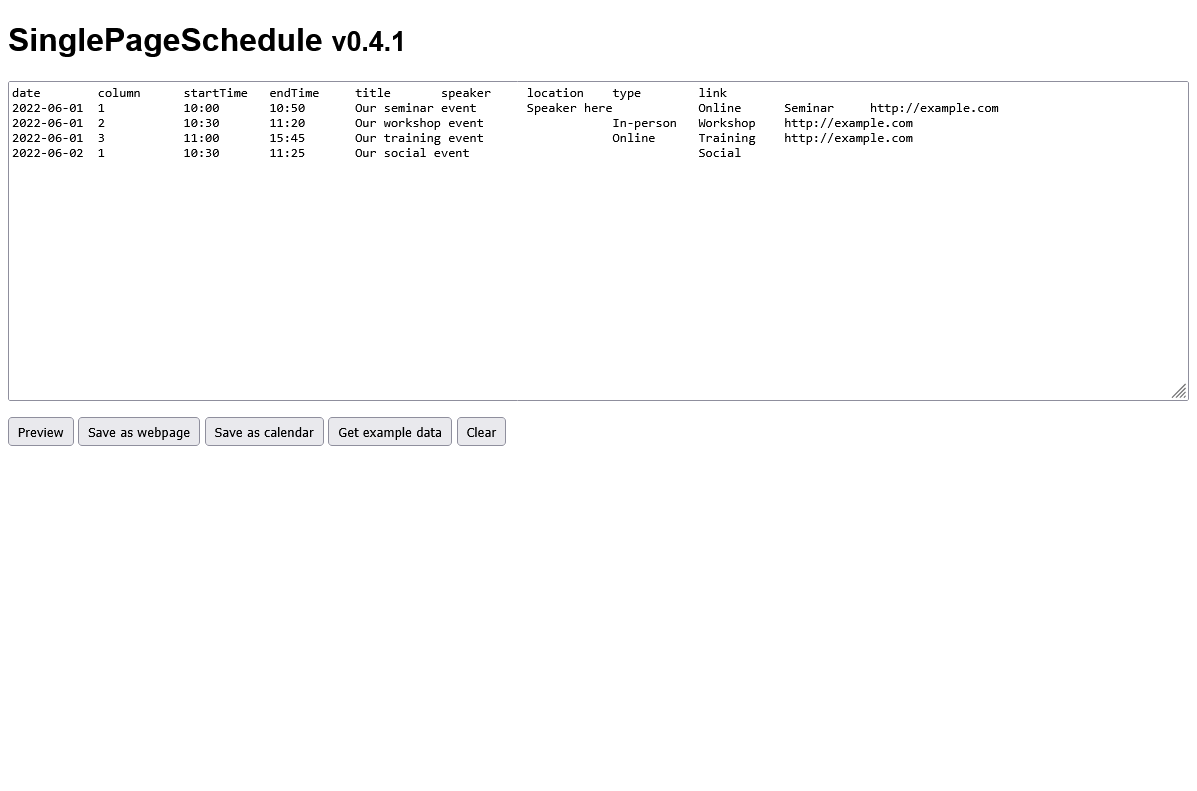
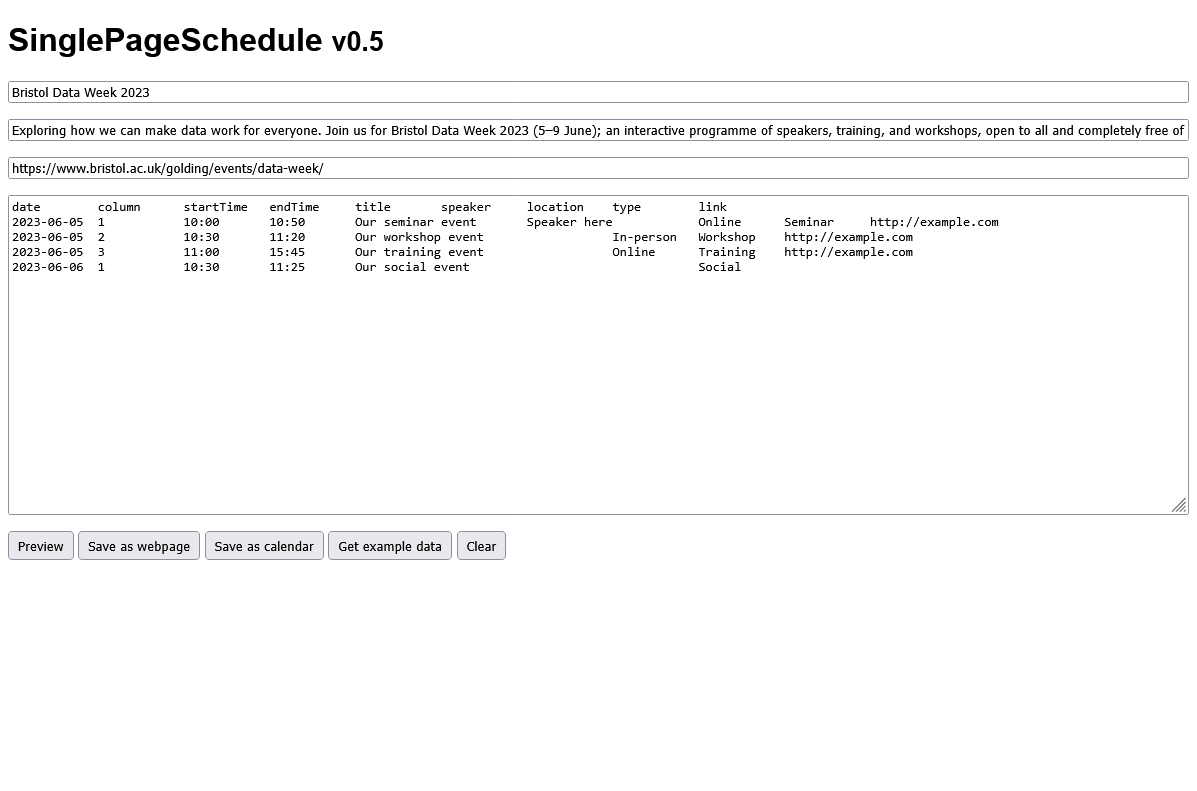
Add version 0.5
(Added 2025-03-18)

diff --git a/index.html b/index.html
@@ -1,7 +1,7 @@
 <!DOCTYPE html>
 <!--
-    SinglePageSchedule v0.4.1
-    Copyright (C) 2022, James Thomas (MIT License)
+    SinglePageSchedule v0.5
+    Copyright (C) 2022-2023, James Thomas (MIT License)
     Redistribution and use in source and binary forms, with or without modification, are permitted provided that the following conditions are met:
     1. Redistributions of source code must retain the above copyright notice, this list of conditions and the following disclaimer.
     2. Redistributions in binary form must reproduce the above copyright notice, this list of conditions and the following disclaimer in the documentation and/or other materials provided with the distribution.
@@ -12,7 +12,7 @@
     <head>
         <meta charset="utf-8">
         <meta name="viewport" content="width=device-width, initial-scale=1">
-        <title>SinglePageSchedule v0.4.1</title>
+        <title>SinglePageSchedule v0.5</title>
         <style>
             *,
             *:before,
@@ -22,7 +22,12 @@
             body {
                 font-family: Arial, Helvetica, sans-serif;
             }
-            #source {
+            input {
+                margin: 1rem 0;
+                width: 100%;
+                display: block;
+            }
+            textarea {
                 margin: 1rem 0;
                 width: 100%;
                 height: 20rem;
@@ -39,13 +44,18 @@
         </style>
     </head>
     <body>
-        <h1>SinglePageSchedule <small>v0.4.1</small></h1>
-        <textarea id="source" placeholder="Paste table from Excel here" disabled></textarea>
-        <button id="preview" disabled>Preview</button>
-        <button id="download" disabled>Save as webpage</button>
-        <button id="download_calendar" disabled>Save as calendar</button>
-        <button id="example" disabled>Get example data</button>
-        <button id="clear" disabled>Clear</button>
+        <h1>SinglePageSchedule <small>v0.5</small></h1>
+        <form id="template_form">
+            <input id="conference_name" placeholder="Enter a conference name here (goes in the page title)" required disabled>
+            <input id="conference_description" placeholder="Enter a conference description here (for search engines)" required disabled>
+            <input id="conference_url" placeholder="Enter URL for the main conference page (for the back link)" required disabled>
+            <textarea id="source" placeholder="Paste table of event data from Excel here" required disabled></textarea>
+            <button id="preview" disabled>Preview</button>
+            <button id="download" disabled>Save as webpage</button>
+            <button id="download_calendar" disabled>Save as calendar</button>
+            <button id="example" disabled>Get example data</button>
+            <button id="clear" disabled>Clear</button>
+        </form>
         <div id="result"></div>
 
         <script>
@@ -87,6 +97,15 @@
             window.onload = function() {
                 loadCache();
 
+                conference_name.onchange = updateCache;
+                conference_name.disabled = false;
+
+                conference_description.onchange = updateCache;
+                conference_description.disabled = false;
+
+                conference_url.onchange = updateCache;
+                conference_url.disabled = false;
+
                 source.onchange = updateCache;
                 source.disabled = false;
 
@@ -111,7 +130,7 @@
 
             const dataSchema = row => ({
                 date: parseDate(row.date) || undefined,
-                column: +row.column || undefined,
+                column: +row.column || (row.column == 'span') && 'span' || undefined,
                 startTime: parseDateTime(row.date + 'T' + row.startTime) || undefined,
                 endTime: parseDateTime(row.date + 'T' + row.endTime) || undefined,
                 title: row.title || undefined,
@@ -143,7 +162,7 @@
                 const gridTimes = d3.timeTicks(minTime, maxTime, quarterHourly);
                 const labelTimes = d3.timeTicks(minTime, maxTime, d3.timeHour);
                 const labelGridStep = gridTimes.map(x => +x).indexOf(+labelTimes[1]);
-                const overallMaxColumns = d3.max(data, x => x.column);
+                const overallMaxColumns = d3.max(data, x => +x.column);
 
                 // Sort by datetime of event start, and then column
                 data.sort((a, b) => a.column - b.column)
@@ -152,10 +171,13 @@
                 data = d3.group(data, row => row.date);
 
                 let context = {
+                    conference_name: conference_name.value,
+                    conference_description: conference_description.value,
+                    conference_url: conference_url.value,
                     days: d3.map(data, ([date, events]) => ({
                         date: date,
                         events: events,
-                        num_columns: d3.max(events, event => event.column)
+                        num_columns: d3.max(events, event => +event.column)
                     })),
                     gridTimes: gridTimes,
                     labelTimes: labelTimes,
@@ -199,6 +221,7 @@
                 data.sort((a, b) => a.startTime - b.startTime)
 
                 let context = {
+                    conference_name: conference_name.value,
                     events: data,
                     now: d3.timeSecond()
                 }
@@ -207,6 +230,7 @@
             }
 
             function previewSchedule() {
+                event.preventDefault();
                 const schedule = generateSchedule();
                 if (schedule) {
                     const blob = new Blob([schedule], {type: 'text/html'});
@@ -217,6 +241,7 @@
             }
 
             function downloadSchedule() {
+                event.preventDefault();
                 const schedule = generateSchedule();
                 if (schedule) {
                     const blob = new Blob([schedule], {type: 'text/html'});
@@ -230,6 +255,7 @@
             }
 
             function downloadCalendar() {
+                event.preventDefault();
                 const schedule = generateCalendar();
                 if (schedule) {
                     const blob = new Blob([schedule], {type: 'text/calendar'});
@@ -247,20 +273,35 @@
             }
 
             function getExample() {
+                event.preventDefault();
+                conference_name.value = "Bristol Data Week 2023";
+                conference_description.value = "Exploring how we can make data work for everyone. Join us for Bristol Data Week 2023 (5–9 June); an interactive programme of speakers, training, and workshops, open to all and completely free of charge.";
+                conference_url.value = "https://www.bristol.ac.uk/golding/events/data-week/";
                 source.value = exampleSource.innerHTML.replaceAll(/^\s*/gm, '').replaceAll(/,/g, '\t');
                 source.onchange();
             }
 
             function clearSource() {
+                event.preventDefault();
+                conference_name.value = '';
+                conference_description.value = '';
+                conference_url.value = '';
                 source.value = '';
-                source.onchange();
+                conference_name.onchange();
+                conference_name.focus();
             }
 
             function loadCache() {
+                conference_name.value = localStorage.conference_name ?? '';
+                conference_description.value = localStorage.conference_description ?? '';
+                conference_url.value = localStorage.conference_url ?? '';
                 source.value = localStorage.source ?? '';
             }
 
             function updateCache() {
+                localStorage.conference_name = conference_name.value;
+                localStorage.conference_description = conference_description.value;
+                localStorage.conference_url = conference_url.value;
                 localStorage.source = source.value;
             }
 
@@ -280,7 +321,6 @@
             }
 
             Handlebars.registerHelper('toLower', string => string.toLowerCase());
-            Handlebars.registerHelper('toUpper', string => string.toUpperCase());
             Handlebars.registerHelper('add', (number1, number2) => number1 + number2);
             Handlebars.registerHelper('toStartRow', quarterHourly.floor);
             Handlebars.registerHelper('toEndRow', quarterHourly.ceil);
@@ -343,8 +383,8 @@
         <script id="html_template" type="text/x-handlebars-template">
             <!DOCTYPE html>  
             <!--  
-            Generated by SinglePageSchedule v0.4.1  
-            Copyright (C) 2022, James Thomas (MIT License)  
+            Generated by SinglePageSchedule v0.5  
+            Copyright (C) 2022-2023, James Thomas (MIT License)  
             Redistribution and use in source and binary forms, with or without modification, are permitted provided that the following conditions are met:  
             1. Redistributions of source code must retain the above copyright notice, this list of conditions and the following disclaimer.  
             2. Redistributions in binary form must reproduce the above copyright notice, this list of conditions and the following disclaimer in the documentation and/or other materials provided with the distribution.  
@@ -355,12 +395,12 @@
                 <head>
                     <meta charset="utf-8">
                     <meta name="viewport" content="width=device-width, initial-scale=1">
-                    <title>Interactive Schedule for Bristol Data Week 2022</title>
-                    <meta name="description" content="Exploring how we can make data work for everyone. Join us for Bristol Data Week 2022 (13–17 June); an interactive programme of speakers, training, and workshops, open to all and completely free of charge.">
+                    <title>Interactive Schedule for {{conference_name}}</title>
+                    <meta name="description" content="{{conference_description}}">
                     {{{style}}}
                 </head>
                 <body>
-                    <h1><a href="https://www.bristol.ac.uk/golding/get-involved/data-week/" title="Back to Bristol Data Week homepage">Bristol Data Week 2022</a></h1>
+                    <h1><a href="{{conference_url}}" title="Back to {{conference_name}} homepage">{{conference_name}}</a></h1>
 
                     <div id="schedule">
                         <div>
@@ -368,12 +408,15 @@
 
                             {{#each days}}
                             <ul>
-                                <li class="schedule_heading"><h2>{{toUpper (toDay date)}}{{toOrdinal date}}</h2></li>
+                                <li class="schedule_heading"><h2>{{toDay date}}{{toOrdinal date}} {{toMonth date}}</h2></li>
                                 <li aria-hidden="true" class="schedule_times"><div></div>{{#each ../labelTimes}}{{#unless @last}}<time>{{toTime this}}</time>{{/unless}}{{/each}}</li>
                                 <li aria-hidden="true" class="schedule_shading">{{#each ../labelTimes}}{{#unless @last}}<time></time>{{/unless}}{{/each}}</li>
 
                                 {{#each events}}
                                 <li class="schedule_event schedule_type_{{toLower type}} schedule_column_{{column}}" style="grid-row: time-{{toStylesheetTime (toStartRow startTime)}} / time-{{toStylesheetTime (toEndRow endTime)}};">
+                                    <time datetime="{{toIsoTime startTime}}-{{toIsoTime endTime}}"><span aria-label="Date" class="sr-only">{{toDay date}}{{toOrdinal date}} {{toMonth date}},</span> <span aria-label="Time">{{toTime startTime}}-{{toTime endTime}}</span></time>
+                                    {{#if location}}<span aria-label="Location" class="schedule_location schedule_location_{{toLower location}}">{{nonBreakingHyphen location}}</span>{{/if}}
+                                    {{#if type}}<span aria_label="Event type" class="schedule_type">{{type}}</span>{{/if}}
                                     <h3>
                                         {{#if link}}
                                         <a target="_blank" href="{{link}}" title="{{type}}">{{title}}</a>
@@ -381,11 +424,7 @@
                                         {{title}}
                                         {{/if}}
                                     </h3>
-                                    <address>
-                                        {{#if speaker}}<span aria-label="Speaker">{{speaker}}</span><br>{{/if}}
-                                        <time datetime="{{toIsoTime startTime}}-{{toIsoTime endTime}}"><span aria-label="Date" class="sr-only">{{toDay date}}{{toOrdinal date}} {{toMonth date}},</span> <span aria-label="Time">{{toTime startTime}}-{{toTime endTime}}</span></time>{{#if location}}, <span aria-label="Location">{{nonBreakingHyphen location}}</span>{{/if}}
-                                        <span aria_label="Event type" class="schedule_type sr-only">{{type}}</span>
-                                    </address>
+                                    {{#if speaker}}<span aria-label="Speaker">{{speaker}}</span><br>{{/if}}
                                 </li>
                                 {{/each}}
                             </ul>
@@ -462,7 +501,7 @@
                 right: 0.5rem;
                 bottom: 0.5rem;
                 left: 0.5rem;
-                font-size: 0.68rem;
+                font-size: 0.8rem;
 
                 .screen-size-mobile({
                     top: 7rem;
@@ -496,7 +535,7 @@
 
                     {{#each days}}
                     &:nth-child({{add @index 2}}) {
-                        grid-template-columns: repeat({{num_columns}}, minmax(9rem, 1fr));
+                        grid-template-columns: repeat({{num_columns}}, minmax(12rem, 1fr));
                     }
                     {{/each}}
 
@@ -506,7 +545,7 @@
 
                         {{#each days}}
                         &:nth-child({{add @index 2}}) {
-                            grid-template-columns: 4rem repeat({{num_columns}}, minmax(9rem, 1fr));
+                            grid-template-columns: 4rem repeat({{num_columns}}, minmax(12rem, 1fr));
                         }
                         {{/each}}
                     });
@@ -524,20 +563,25 @@
                 .schedule_event {
                     position: relative;
                     margin: 0.2rem 0.25rem 0.3rem;
-                    padding: 0.3rem 0.5rem;
+                    padding: 0.4rem 0.5rem 0.6rem;
                     border-radius: 0.25rem;
 
                     {{#times overallMaxColumns}}
                     &.schedule_column_{{this}} { grid-column: {{this}} }
                     {{/times}}
+
+                    &.schedule_column_span { grid-column: 1 / -1 }
                     
                     .screen-size-tablet({
                         {{#times overallMaxColumns}}
                         &.schedule_column_{{this}} { grid-column: {{add this 1}} }
                         {{/times}}
+
+                        &.schedule_column_span { grid-column: 2 / -1 }
                     });
 
                     h3 {
+                        font-size: 1.2em;
                         margin: 0 0 0.05rem;
                     }
 
@@ -571,7 +615,32 @@
                         }
                     }
 
-                    address {
+                    .schedule_type,
+                    .schedule_location {
+                        font-size: 0.9em;
+                        font-weight: bold;
+                        display: inline-block;
+                        padding: 0.2rem 0.3rem;
+                        border-radius: 0.25rem;
+                        margin: 0.2rem 0.2rem 0.2rem 0;
+                        text-transform: uppercase;
+                    }
+
+                    .schedule_type {
+                        background: #0003;
+                    }
+
+                    .schedule_location_in-person {
+                        color: @page-foreground-color;
+                        background: @page-background-color;
+                    }
+                    
+                    .schedule_location_online {
+                        color: @page-background-color;
+                        background: @page-foreground-color;
+                    }
+
+                    time {
                         display: block;
                     }
                 }
@@ -646,7 +715,7 @@
                         padding: 0.5rem;
                         text-align: center;
                         color: @times-foreground-color;
-                        font-size: 0.75rem;
+                        font-size: 0.9rem;
 
                         &:last-child {
                             border-bottom: none;
@@ -702,7 +771,7 @@
                 padding: 0;
                 margin: 0;
                 display: flex;
-                font-size: 0.68rem;
+                font-size: 0.9rem;
                 font-weight: bold;
                 align-items: center;
                 justify-content: end;
@@ -814,7 +883,7 @@
             BEGIN:VCALENDAR
             PRODID:SinglePageSchedule
             VERSION:2.0
-            X-WR-CALNAME:Bristol Data Week 2022
+            X-WR-CALNAME:{{conference_name}}
             X-PUBLISHED-TTL:PT6H
             {{#each events}}
             BEGIN:VEVENT
@@ -832,10 +901,10 @@
         </script>
         <script id="exampleSource" type="text/x-handlebars-template">
             date,column,startTime,endTime,title,speaker,location,type,link
-            2022-06-01,1,10:00,10:50,Our seminar event,Speaker here,Online,Seminar,http://example.com
-            2022-06-01,2,10:30,11:20,Our workshop event,,In-person,Workshop,http://example.com
-            2022-06-01,3,11:00,15:45,Our training event,,Online,Training,http://example.com
-            2022-06-02,1,10:30,11:25,Our social event,,,Social,
+            2023-06-05,1,10:00,10:50,Our seminar event,Speaker here,Online,Seminar,http://example.com
+            2023-06-05,2,10:30,11:20,Our workshop event,,In-person,Workshop,http://example.com
+            2023-06-05,3,11:00,15:45,Our training event,,Online,Training,http://example.com
+            2023-06-06,1,10:30,11:25,Our social event,,,Social,
         </script>
     </body>
 </html>
